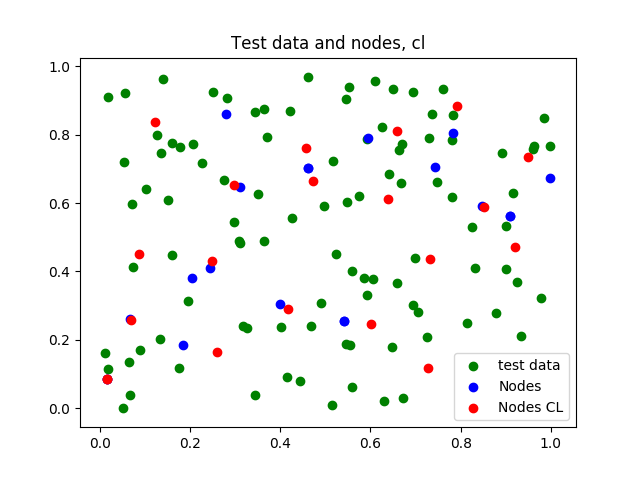
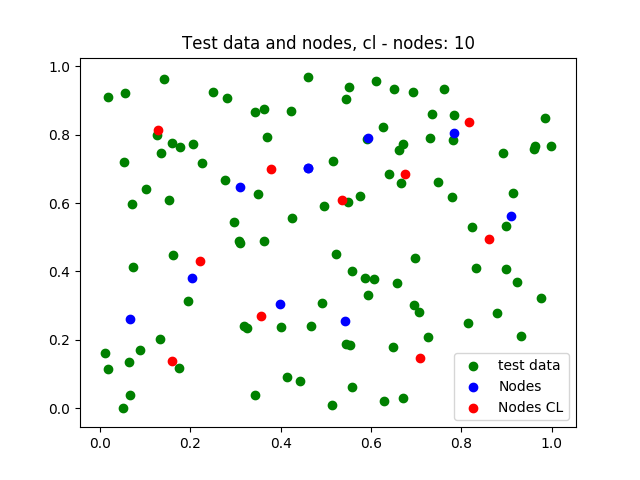
cl 2d

diff --git a/rbf_2d.py b/rbf_2d.py
@@ -154,13 +154,13 @@ def assignment1_ballist():
     #output space
     fig = plt.figure()
     tr = plt.scatter(test_labels[:,0],test_labels[:,1], c='g', label="true")
-    #f_h_s = plt.scatter(f_test_s[:,0],f_test_s[:,1], c='b', label="Seq")
-    f_h_b = plt.scatter(f_test_b[:,0], f_test_b[:,1], c='r', label="Batch")
-    #f_h_s_cl = plt.scatter(f_test_s_cl[:,0],f_test_s_cl[:,1], label="Seq cl")
-    f_h_b_cl = plt.scatter(f_test_b_cl[:,0], f_test_b_cl[:,1], label="Batch cl")
-    plt.title('Test data: Batch - nodes: 10')
-    plt.legend(handles=[f_h_b, f_h_b_cl, tr])
-    fig.savefig('report/plots/2d/first_basic_both_CL_output_batch_test')
+    f_h_s = plt.scatter(f_test_s[:,0],f_test_s[:,1], c='b', label="Seq")
+    #f_h_b = plt.scatter(f_test_b[:,0], f_test_b[:,1], c='r', label="Batch")
+    f_h_s_cl = plt.scatter(f_test_s_cl[:,0],f_test_s_cl[:,1], label="Seq cl")
+    #f_h_b_cl = plt.scatter(f_test_b_cl[:,0], f_test_b_cl[:,1], label="Batch cl")
+    plt.title('Test data: Seq - nodes: 10')
+    plt.legend(handles=[f_h_s, f_h_s_cl, tr])
+    fig.savefig('report/plots/2d/first_basic_both_CL_output_seq_test')
 
     plt.show()
 
@@ -171,7 +171,7 @@ def assignment1_ballist():
     nds_cl = plt.scatter(mu_cl[:,0],mu_cl[:,1], c='r', label="Nodes CL")
     plt.legend(handles=[train_data, nds, nds_cl])
     plt.title("Test data and nodes, cl - nodes: 10")
-    fig2.savefig('report/plots/2d/input_basic_both_cl_batch_test')
+    fig2.savefig('report/plots/2d/input_basic_both_cl_seq_test')
 
     plt.show()
 
